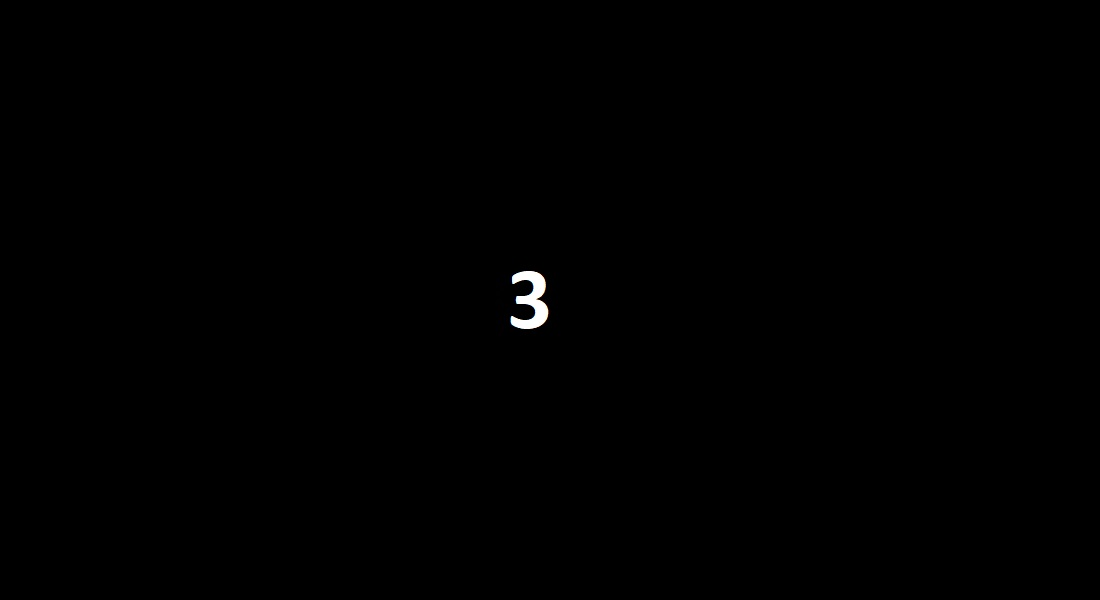
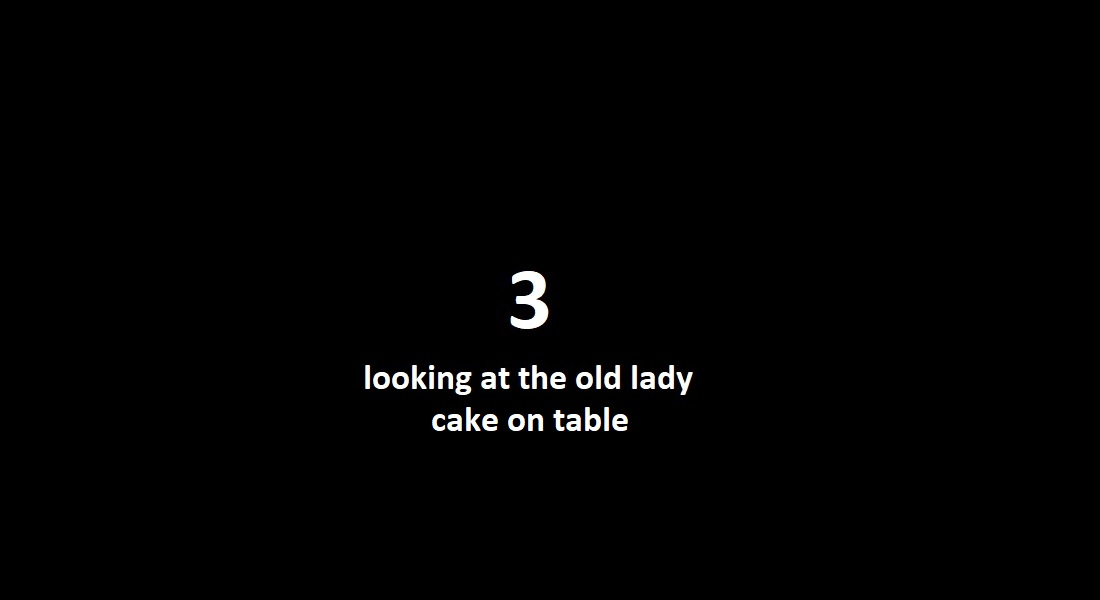
updated seeds, new images, farther into game. changed paths. cake state true. stats object from get request. more stats on main page

Changed region(s): [[0.3091, 0.6, 0.6491, 0.72]]

diff --git a/routes/api.js b/routes/api.js
@@ -1,38 +1,91 @@
-const express = require('express')
+const express = require('express');
 
-const router = express.Router()
+const router = express.Router();
 
-// const currentURL = window.location.origin;
+//===================================================
+  // game level and player stats
+//===================================================
 
 router
-  .get('/game/:level', (req, res) => {
+  .get('/game/level/:page', (req, res) => {
 
-    req.connection.query('SELECT * FROM level_questions WHERE id = ?; SELECT * FROM player WHERE id = ?', [req.params.level, 1], (err, data) => {
+    req.connection.query('SELECT * FROM level_questions WHERE id = ?; SELECT * FROM player WHERE id = ?', [req.params.page, 1], (err, data) => {
 
-          // res.json(data[0])
-          res.render('index', {
-            //question
-            qId: data[0][0].id,
-            question: data[0][0].question,
-            choices: data[0][0].choices,
-            page: data[0][0].page_number,
-            background: data[0][0].image_path,
-            // stats
-            name: data[1][0].player_name,
-            health: data[1][0].player_health
-          })
+      const q = data[0][0];
+      const s = data[1][0];
 
-      })
+      // catch any errors
+      if (err) {
+        console.log(err);
+        return res.status(500).send('oops');
+      };
 
-    })      
+      // res.json(data[0])
+      res.render('index', {
 
+        //question
+        qId: q.id,
+        question: q.question,
+        choices: q.choices,
+        next_page: q.next_page_paths,
+        current_page: q.current_page_number,
+        background: q.image_path,
 
-  .put('/subtracthealth', (req, result) => {
-  //   req.connection.query('UPDATE player SET player_health = player_health - 10 WHERE id = 1')
+        // stats
+        id: s.id,
+        name: s.player_name,
+        health: s.player_health,
+        defence: s.player_defence,
+        gold: s.player_gold,
+        sword_state: s.sword_state,
+        sword_damage: s.sword_damage,
+        cake_state: s.cake_state,
+        torch_state: s.torch_state,
+        createdAt: s.createdAt
+
+      });
+
+    });
+
+  });
+
+//===================================================
+  // get complete player stats
+//===================================================
+
+router
+  .get('/player/stats', (req, res) => {
+
+    req.connection.query('SELECT * FROM player WHERE id = 1;', (err, data) => {
+      // const d = data[0]
+      res.json(data) 
+      // res.render('index', {
+      //   id: d.id,
+      //   name: d.player_name,
+      //   health: d.player_health,
+      //   defence: d.player_defence,
+      //   gold: d.player_gold,
+      //   sword_state: d.sword_state,
+      //   sword_damage: d.sword_damage,
+      //   cake_state: d.cake_state,
+      //   torch_state: d.torch_state,
+      //   createdAt: d.createdAt
+      // })
+    })
+  })      
+  
+//===================================================
+  // subtract gold when purchase cake 
+//===================================================
+//   req.connection.query('UPDATE player SET player_health = player_health - 10 WHERE id = 1')
+
+router
+  .put('/gold/subtract', (req, result) => {
   
     const columnQuery = "SELECT * FROM player WHERE id = 1;";
 
     req.connection.query(columnQuery, (err, res) => {
+
       // catch any errors
       if (err) {
         console.log(err);
@@ -42,28 +95,78 @@ router
       //player from first connection.query is the first ?
       const updateQuery = "UPDATE player SET ? WHERE id = 1;";
 
-      // add input to the player row
-      const updateHealth = res[0].player_health - 10;
+      // update gold count in player row
+      const updateGold = res[0].player_gold - 100;
 
       //object for query
       const updateObject = [
         {
-          player_health: updateHealth
+          player_gold: updateGold
         }
       ];
 
       // second query for adding the input quantity to the table
       req.connection.query(updateQuery, updateObject, (err, data) => {
+
         // catch any errors
         if (err) {
           console.log(err);
           return res.status(500).send('bfgsder');
         };
+
         console.log(data);
-        return result.end();
+        return result.status(200).send('successful subtraction of gold');
+
       });
+
     });
-  })
+
+  });
+
+//===================================================
+// update cake state to true
+//===================================================
+//   req.connection.query('UPDATE player SET player_health = player_health - 10 WHERE id = 1')
+
+router
+  .put('/cake/true', (req, result) => {
+
+    const updateCakeTrue = "UPDATE player SET cake_state = true WHERE id = 1;";
+
+      // second query for adding the input quantity to the table
+    req.connection.query(updateCakeTrue, (err, data) => {
+
+      // catch any errors
+      if (err) {
+        console.log(err);
+        return result.status(500).send('error');
+      };
+
+      console.log(data);
+      return result.status(200).send('successful change of cake state');
+
+    });
+
+  });
+
+
+
+
+
+
+
+
+
+
+
+
+
+
+
+
+
+
+
 
 module.exports = router
 

diff --git a/public/js/index.js b/public/js/index.js
@@ -1,15 +1,23 @@
 const currentURL = window.location.origin;
 
-
+//===================================================
+  // button click for when you purchase cake from lady
+  // change cake state to true
+//===================================================
 $('#5').on("click", (event) => {
     event.preventDefault()
 
     // alert('clicked button with id of 5')
-    $.ajax("/subtracthealth", {
+    $.ajax("/gold/subtract", {
         type: "PUT" 
     }).then(() => {
-        // redirect to success page
-        location.href = currentURL + "/game/5";
-    });
-    
+        $.ajax("/cake/true", {
+            type: "PUT"
+        });
+    }).then(() => {;
+        // redirect to next page
+        location.href = currentURL + "/game/level/5";
+    })
 })
+
+
